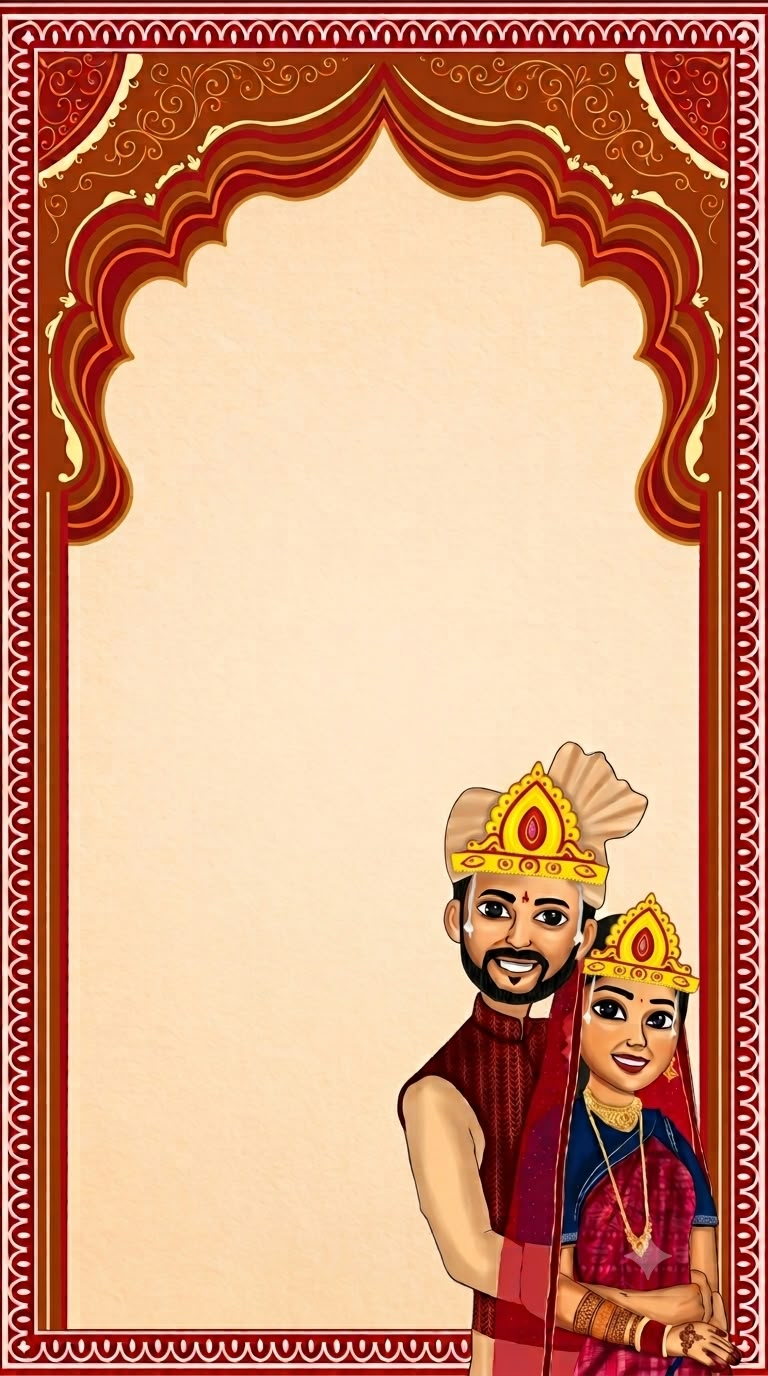
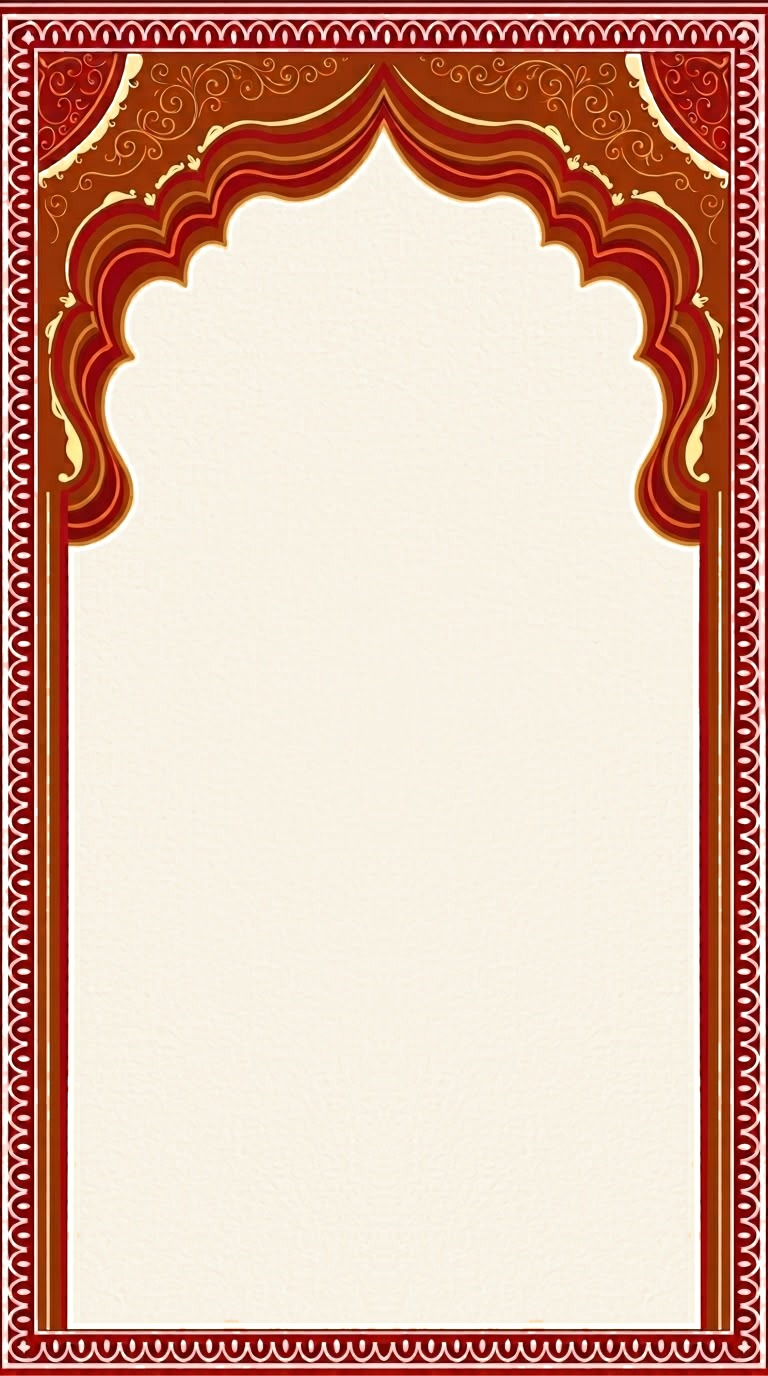
Couple: Ganesha, personal greeting, names, hashtag and quote
- The couple card keeps its carved arch and red-and-gold border; the
  illustrated couple is painted out (mirrored from the clean, symmetric
  left side) and the card's cream is matched to the invitation paper
- Spread evenly down the screen, all centred: a minimal gold Ganesha
  (fades and scales in), || Om Ganeshaya Namah ||, "Dear [guest]," from
  the share link (fallback Guest), "We joyfully invite you to celebrate
  with us.", a gold divider, the names stacked in Great Vibes (each line
  rising in 0.3s apart, gold ampersand at half size), #AviWedsPragyan in
  small caps between thin gold rules, and the quote under a small lotus
- EB Garamond at the specified weights, sizes and colours; no text
  transparency; balanced line breaks; transform/opacity animations only
- Fits one screen on phones and in the mockup (the shared fit hook gains
  a spread mode); the wording lives in config (couple.*)

diff --git a/src/components/sections/Couple.tsx b/src/components/sections/Couple.tsx
@@ -1,80 +1,53 @@
-import { useRef, type CSSProperties, type ReactNode } from "react";
+import { useRef, type CSSProperties } from "react";
 import { wedding } from "@/config/wedding";
+import { useGuest } from "@/context/GuestContext";
 import { useFitToArea } from "@/hooks/useFitToArea";
 import { useInView } from "@/hooks/useInView";
 import { EASE } from "@/lib/motion";
 import { CardBackdrop, cardCq, cardMinHeight, type CardArt } from "@/components/art/CardBackdrop";
-import { Divider, PinIcon } from "@/components/ui/CardOrnaments";
+import { GaneshaIcon, LotusIcon } from "@/components/art/Ganesha";
+import { Divider } from "@/components/ui/CardOrnaments";
 
 /**
- * The couple card artwork (768×1376): a carved arch in a red-and-gold border,
- * with the illustrated bride and groom at the bottom right. Its top (the
- * arch) and bottom (the couple) are kept whole; a plain band of the middle
- * repeats between them so the card fills the screen undistorted.
+ * The couple card artwork (768×1376): a carved arch in a red-and-gold border
+ * on cream paper matched to the invitation card. Its top (the arch) and
+ * bottom are kept whole; a plain 117px band of the middle repeats between
+ * them so the card fills the screen undistorted.
  */
 const CARD: CardArt = { src: "/art/couple-card.jpg", middle: "/art/couple-card-middle.png", w: 768, h: 1376, top: 606, bottomFrom: 723 };
 const cq = (px: number) => cardCq(CARD, px);
-const ARCH_INSIDE = 215; // the words start below the arch's peak (card px)
-const COUPLE_FROM = 745; // the illustrated couple (their crowns) begins here
-const ARCH_EDGE = 100; // the arch's inner edge, in from each side
+const UNDER_ARCH = 160; // below the arch's peak (card px)
+const BORDER_BOTTOM = 1300; // the bottom border band begins here
+const PANEL_EDGE = 62; // the inner red line of the side borders
 
 const INK = "#2E1A10";
+const QUOTE_INK = "#4A2C1A";
 const MAROON = "#7A1424";
 const GOLD = "#B8863B";
 const DARK_GOLD = "#8F6420";
-const LINE_STAGGER = 140;
 
 /**
  * Section 03 — The couple.
- * The couple's card fills the screen; inside its arch, above the illustrated
- * bride and groom, their names, the date and place, and a few words of
- * welcome rise in one by one as the section comes into view.
+ * Under Ganesha and the invocation, the guest is greeted by name, then the
+ * couple's names rise in one after another, with their hashtag and a short
+ * quote — spread evenly down the card, inside its arch and border.
  */
 export function Couple() {
   const ref = useRef<HTMLElement>(null);
   const areaRef = useRef<HTMLDivElement>(null);
   const blockRef = useRef<HTMLDivElement>(null);
-  const inView = useInView(ref, { threshold: 0.3 });
-  useFitToArea(areaRef, blockRef);
-  const { invitation } = wedding;
+  const inView = useInView(ref, { threshold: 0.25 });
+  useFitToArea(areaRef, blockRef, { spread: true });
+  const { guestName } = useGuest();
+  const { couple, invitation } = wedding;
   const [first, second] = invitation.names;
 
-  const line = (order: number): CSSProperties => {
-    const delay = 150 + order * LINE_STAGGER;
-    return {
-      opacity: inView ? 1 : 0,
-      transform: inView ? "none" : "translateY(10px)",
-      transition: `opacity 800ms ${EASE.silk} ${delay}ms, transform 800ms ${EASE.silk} ${delay}ms`,
-    };
-  };
-
-  const lines: ReactNode[] = [
-    <p key="e" className="mb-1 text-[13px] font-bold tracking-[0.3em] [font-variant-caps:small-caps]" style={{ color: DARK_GOLD }}>
-      The Couple
-    </p>,
-    <p key="n" aria-hidden className="mb-2 flex flex-col items-center leading-[1.05]" style={{ color: MAROON }}>
-      <span className="font-vibes text-[44px]">{first}</span>
-      <span className="font-vibes text-[26px] leading-none" style={{ color: GOLD }}>
-        &amp;
-      </span>
-      <span className="font-vibes text-[44px]">{second}</span>
-    </p>,
-    <Divider key="d" className="mb-2.5" />,
-    invitation.dateLine && (
-      <p key="dt" className="mb-1 text-[19px] font-bold leading-snug" style={{ color: MAROON }}>
-        {invitation.dateLine}
-      </p>
-    ),
-    invitation.place && (
-      <div key="pl" className="mb-3 flex flex-col items-center">
-        <PinIcon />
-        <p className="mt-0.5 max-w-[15rem] text-[14.5px] font-semibold leading-snug">{invitation.place}</p>
-      </div>
-    ),
-    <p key="m" className="mx-auto max-w-[17rem] text-[15.5px] font-semibold italic leading-relaxed">
-      {wedding.couple.message}
-    </p>,
-  ].filter(Boolean);
+  /** Fades in from just below, after `delay` ms. */
+  const rise = (delay: number): CSSProperties => ({
+    opacity: inView ? 1 : 0,
+    transform: inView ? "none" : "translateY(12px)",
+    transition: `opacity 700ms ${EASE.silk} ${delay}ms, transform 800ms ${EASE.silk} ${delay}ms`,
+  });
 
   return (
     <section
@@ -84,27 +57,83 @@ export function Couple() {
       data-status-tone="light"
       className="relative [container-type:inline-size]"
     >
-      <h2 id="couple-heading" className="sr-only">
-        {first} and {second}
-      </h2>
       <CardBackdrop card={CARD} />
 
       <div
         className="relative z-20 flex flex-col"
-        style={{ minHeight: cardMinHeight(CARD), paddingTop: cq(ARCH_INSIDE), paddingBottom: cq(CARD.h - COUPLE_FROM), color: INK }}
+        style={{
+          minHeight: cardMinHeight(CARD),
+          paddingTop: cq(UNDER_ARCH),
+          paddingBottom: `calc(${cq(CARD.h - BORDER_BOTTOM)} + 10px)`,
+          color: INK,
+        }}
       >
-        {/* Inside the arch, above the illustrated couple; shrinks if needed to fit */}
         <div ref={areaRef} className="relative min-h-0 flex-1">
+          {/* Spread evenly down the card; shrinks a little on very small screens */}
           <div
             ref={blockRef}
-            className="absolute inset-x-0 top-1/2 py-2 text-center font-serif"
-            style={{ paddingInline: `calc(${cq(ARCH_EDGE)} + 10px)`, transform: "translateY(-50%)" }}
+            className="absolute inset-x-0 top-1/2 flex flex-col items-center justify-evenly gap-4 text-center font-serif"
+            style={{ paddingInline: `calc(${cq(PANEL_EDGE)} + 28px)`, transform: "translateY(-50%)" }}
           >
-            {lines.map((node, i) => (
-              <div key={i} style={line(i)}>
-                {node}
+            {/* Ganesha and the invocation */}
+            <div className="flex flex-col items-center">
+              <div
+                style={{
+                  opacity: inView ? 1 : 0,
+                  transform: inView ? "none" : "scale(0.85)",
+                  transition: `opacity 600ms ${EASE.silk}, transform 600ms ${EASE.silk}`,
+                }}
+              >
+                <GaneshaIcon className="h-14 w-auto" />
               </div>
-            ))}
+              <p className="mt-3 whitespace-nowrap text-[17px] font-bold tracking-[0.15em]" style={{ ...rise(250), color: MAROON }}>
+                {couple.invocation}
+              </p>
+            </div>
+
+            {/* The guest, by name */}
+            <div className="flex flex-col items-center">
+              <p className="text-[20px] font-semibold italic leading-tight" style={rise(450)}>
+                {couple.greeting.replace("{guest}", guestName)}
+              </p>
+              <p className="mt-1.5 text-[16px] font-medium leading-snug [text-wrap:balance]" style={rise(600)}>
+                {couple.invite}
+              </p>
+              <div className="mt-3" style={rise(700)}>
+                <Divider />
+              </div>
+            </div>
+
+            {/* The couple's names, one after another */}
+            <h2 id="couple-heading" className="flex flex-col items-center font-normal leading-[1.1]" style={{ color: MAROON }}>
+              <span className="font-vibes text-[56px]" style={rise(900)}>
+                {first}
+              </span>
+              <span className="my-1.5 font-vibes text-[28px] leading-none" style={{ ...rise(1200), color: GOLD }}>
+                &amp;
+              </span>
+              <span className="font-vibes text-[56px]" style={rise(1500)}>
+                {second}
+              </span>
+            </h2>
+
+            {couple.hashtag && (
+              <div className="flex flex-col items-center gap-1.5" style={rise(1800)}>
+                <span aria-hidden className="h-px w-40" style={{ background: `linear-gradient(to right, transparent, ${GOLD}, transparent)` }} />
+                <p className="text-[15px] font-bold tracking-[0.2em] [font-variant-caps:small-caps]" style={{ color: DARK_GOLD }}>
+                  {couple.hashtag}
+                </p>
+                <span aria-hidden className="h-px w-40" style={{ background: `linear-gradient(to right, transparent, ${GOLD}, transparent)` }} />
+              </div>
+            )}
+
+            {/* A few words, under a small lotus */}
+            <div className="flex flex-col items-center" style={rise(2000)}>
+              <LotusIcon className="h-5 w-auto" />
+              <p className="mt-1.5 max-w-[17rem] text-[16px] font-medium italic leading-[1.7] [text-wrap:balance]" style={{ color: QUOTE_INK }}>
+                {couple.quote}
+              </p>
+            </div>
           </div>
         </div>
       </div>

diff --git a/src/components/art/Ganesha.tsx b/src/components/art/Ganesha.tsx
@@ -1,0 +1,59 @@
+const GOLD = "#B8863B";
+const GOLD_LIGHT = "#D9AE5F";
+const MAROON = "#7A1424";
+
+/**
+ * A small, minimal Ganesha in gold with fine maroon details: crown, broad
+ * ears, a trunk curling to his left, one tusk, tilak and eyes, seated on a
+ * lotus base. Drawn for ~56px tall.
+ */
+export function GaneshaIcon({ className = "" }: { className?: string }) {
+  return (
+    <svg viewBox="0 0 64 72" className={className} role="img" aria-label="Lord Ganesha">
+      {/* Ears, behind the head */}
+      <path d="M17 24C8 20 3 27 4 35c1 7 6 11 13 10 2-5 2-14 0-21Z" fill={GOLD_LIGHT} stroke={GOLD} strokeWidth="1" />
+      <path d="M47 24c9-4 14 3 13 11-1 7-6 11-13 10-2-5-2-14 0-21Z" fill={GOLD_LIGHT} stroke={GOLD} strokeWidth="1" />
+      <path d="M9 31c1 4 3 7 6 8M55 31c-1 4-3 7-6 8" fill="none" stroke={MAROON} strokeWidth="0.8" strokeLinecap="round" />
+
+      {/* Crown (mukut) */}
+      <path d="M22 18l3-9 3.5 5L32 5l3.5 9L39 9l3 9Z" fill={GOLD} stroke={MAROON} strokeWidth="0.7" strokeLinejoin="round" />
+      <circle cx="32" cy="14.5" r="1.5" fill={MAROON} />
+      <path d="M21 18.5h22" stroke={MAROON} strokeWidth="0.9" strokeLinecap="round" />
+
+      {/* Head and trunk, curling to his left */}
+      <path
+        d="M20 22c0-3 5-4 12-4s12 1 12 4c1 7-1 13-5 16-1 4-1 8 1 11 2 3 6 3 7 0 0-2-2-3-3-2"
+        fill="none"
+        stroke={GOLD}
+        strokeWidth="2.2"
+        strokeLinecap="round"
+      />
+      <path d="M20 22c-1 7 1 13 5 16 1 5 2 10 5 13 3 3 8 3 10 0" fill="none" stroke={GOLD} strokeWidth="2.2" strokeLinecap="round" />
+      <path d="M20.5 21.5c0 7 2 12 5 15.5 1 5 2.5 9.5 5 12.5 2.5 2.6 7 2.4 8.8 0 -2.4-2.6-2.6-7-1.6-11.5 3.6-3 5.2-8.5 4.4-15.5C38 21 26 21 20.5 21.5Z" fill={GOLD} opacity="0.9" />
+      <path d="M20.3 23.4c0-3.6 5.2-4.6 11.7-4.6s11.7 1 11.7 4.6v2.2H20.3Z" fill={GOLD} opacity="0.9" />
+      {/* Trunk folds */}
+      <path d="M29.5 40.5h5M30.5 44h4M31.5 47.4h3.2" stroke={MAROON} strokeWidth="0.7" strokeLinecap="round" />
+      {/* Tusk */}
+      <path d="M24.5 37.5l-3.5 3.5" stroke="#FFF6E0" strokeWidth="1.6" strokeLinecap="round" />
+      {/* Eyes and tilak */}
+      <path d="M25.5 28.2c1.2-1 2.6-1 3.8 0M34.7 28.2c1.2-1 2.6-1 3.8 0" fill="none" stroke={MAROON} strokeWidth="1" strokeLinecap="round" />
+      <path d="M32 21.5v4.5" stroke={MAROON} strokeWidth="1.1" strokeLinecap="round" />
+      <path d="M29.3 22.5c1 1.8 4.4 1.8 5.4 0" fill="none" stroke={MAROON} strokeWidth="0.8" strokeLinecap="round" />
+
+      {/* Lotus seat */}
+      <path d="M14 63c4-5 10-6 18-6s14 1 18 6c-5 3-11 4-18 4s-13-1-18-4Z" fill={GOLD_LIGHT} stroke={GOLD} strokeWidth="1" />
+      <path d="M32 57c-3 3-3 7 0 10 3-3 3-7 0-10ZM24 58.5c-2.5 2.5-2.3 6 .5 8.3M40 58.5c2.5 2.5 2.3 6-.5 8.3" fill="none" stroke={MAROON} strokeWidth="0.8" strokeLinejoin="round" />
+    </svg>
+  );
+}
+
+/** A small gold lotus, above the couple's quote. */
+export function LotusIcon({ className = "" }: { className?: string }) {
+  return (
+    <svg viewBox="0 0 40 24" className={className} aria-hidden>
+      <path d="M20 21C14 17 13 9 20 3c7 6 6 14 0 18Z" fill={GOLD} />
+      <path d="M19 21C11 21 6 16 6 10c7 0 12 5 13 11ZM21 21c8 0 13-5 13-11-7 0-12 5-13 11Z" fill={GOLD_LIGHT} stroke={GOLD} strokeWidth="0.8" />
+      <path d="M8 22h24" stroke={GOLD} strokeWidth="1" strokeLinecap="round" />
+    </svg>
+  );
+}

diff --git a/src/hooks/useFitToArea.ts b/src/hooks/useFitToArea.ts
@@ -4,8 +4,14 @@ import { useEffect, type RefObject } from "react";
  * Scales `block` (absolutely positioned and vertically centred in `area`
  * with translateY(-50%)) down just enough to fit `area`. If it would have to
  * go below `minFit`, the area grows instead (and the page scrolls a little).
+ * With `spread`, a block that fits is stretched to the area's full height
+ * (so a flex column inside it can space its items evenly).
  */
-export function useFitToArea(areaRef: RefObject<HTMLElement>, blockRef: RefObject<HTMLElement>, minFit = 0.72) {
+export function useFitToArea(
+  areaRef: RefObject<HTMLElement>,
+  blockRef: RefObject<HTMLElement>,
+  { minFit = 0.72, spread = false }: { minFit?: number; spread?: boolean } = {},
+) {
   useEffect(() => {
     const area = areaRef.current;
     const block = blockRef.current;
@@ -14,10 +20,12 @@ export function useFitToArea(areaRef: RefObject<HTMLElement>, blockRef: RefObjec
     const fit = () => {
       frame = 0;
       area.style.minHeight = "";
+      block.style.height = "";
       const natural = block.offsetHeight;
       const avail = area.clientHeight;
       if (!natural || !avail) return;
       const scale = Math.min(1, Math.max(minFit, avail / natural));
+      if (spread && natural <= avail) block.style.height = `${avail}px`;
       if (natural * scale > avail) area.style.minHeight = `${Math.ceil(natural * scale)}px`;
       block.style.transform = `translateY(-50%) scale(${scale.toFixed(4)})`;
     };
@@ -35,5 +43,5 @@ export function useFitToArea(areaRef: RefObject<HTMLElement>, blockRef: RefObjec
       window.removeEventListener("resize", schedule);
       cancelAnimationFrame(frame);
     };
-  }, [areaRef, blockRef, minFit]);
+  }, [areaRef, blockRef, minFit, spread]);
 }

diff --git a/src/config/wedding.ts b/src/config/wedding.ts
@@ -90,8 +90,16 @@ export interface WeddingConfig {
   couple: {
     bride: Person;
     groom: Person;
-    /** Short line under the couple's names (Section 03). */
-    message: string;
+    /** Section 03, top to bottom: invocation under the Ganesha icon. */
+    invocation: string;
+    /** `{guest}` is replaced with the guest's name from the share link. */
+    greeting: string;
+    /** Line under the greeting. */
+    invite: string;
+    /** Shown under the names; null hides it. */
+    hashtag: string | null;
+    /** Closing quote, under a small lotus. */
+    quote: string;
   };
   wedding: {
     /** ISO 8601 local date-time at the venue, e.g. "2027-02-14T19:30". */
@@ -288,9 +296,11 @@ export const wedding: WeddingConfig = {
   couple: {
     bride: { displayName: "Bride", fullName: null }, // PLACEHOLDER
     groom: { displayName: "Groom", fullName: null }, // PLACEHOLDER
-    // PLACEHOLDER wording
-    message:
-      "Together with our families, we would be honoured to have you with us as we begin our life together.",
+    invocation: "|| Om Ganeshaya Namah ||",
+    greeting: "Dear {guest},",
+    invite: "We joyfully invite you to celebrate with us.",
+    hashtag: "#AviWedsPragyan",
+    quote: "Two souls, one journey, blessed by Lord Jagannath.",
   },
   wedding: {
     dateTime: null, // awaiting confirmed date & time

diff --git a/README.md b/README.md
@@ -35,6 +35,7 @@ Everything a guest reads lives in [`src/config/wedding.ts`](src/config/wedding.t
 | Item | Where |
 |---|---|
 | Couple's names | `couple.bride` / `couple.groom` |
+| Couple section wording (invocation, greeting, invite line, hashtag, quote) | `couple` |
 | Wedding date & time | `wedding.dateTime` |
 | Invitation card wording, names, date and place (date and place are SAMPLES — replace) | `invitation` |
 | Our Story milestones (the couple's own words) | `story.milestones` |
@@ -82,7 +83,7 @@ Each section has its own entrance. All of them respect *reduced motion*.
 |---|---|
 | Opening | The carved temple door artwork (`public/art/temple-door.webp`) fills the screen, fading in from the dark; light gathers at the seam, then the two leaves swing smoothly inward on their own into golden light, the view glides through the doorway and Mahaprabhu Jagannath (`public/art/jagannath.png`, a transparent cut-out) emerges in a radiant golden glow, then the scene rises like a curtain (Skip / Esc; a sound button opposite Skip plays the sankha) |
 | Invitation | The illustrated invitation card (`public/art/invitation-card.jpg`) fits one screen; its plain middle band repeats so it fills any height undistorted. Bold EB Garamond text — the opening line in exactly two lines sized to the width, the names stacked (first / & / second) in Great Vibes, the date and place — is centred between the deities and a colourful filled jhoti rangoli between the banana trees, shrinking just enough to fit (down to 72%, then the card scrolls). The rangoli builds ring by ring and breathes above a bold "Tap the rangoli" on a cream pill; a tap spins its petals into a golden wash that fades into the couple (once only) |
-| Couple | The illustrated couple card (`public/art/couple-card.jpg`: carved arch, red-and-gold border, the bride and groom at the bottom right) fills the screen; inside the arch the names (Great Vibes), date, place and welcome rise in one by one |
+| Couple | The couple card (`public/art/couple-card.jpg`: carved arch in a red-and-gold border, cream matched to the invitation) fills one screen. Spread evenly inside it: a gold Ganesha, || Om Ganeshaya Namah ||, the guest greeted by name, the names stacked in Great Vibes rising in one after another, the hashtag between gold rules, and a quote under a small lotus |
 | Countdown | On a matte-black strip, the Konark Sun Temple wheel turns into alignment with the scroll; days, hours and minutes sit in its hub |
 | Our Story | Sambalpuri Ikat thread grows with the scroll; chapters alternate either side, each marked by a Pattachitra icon (peacocks, Koka lotus, pana-gua) |
 | Family | Gurujana Pranam grid: Aja & Aai above Pitra-Matra in crisp gold boxes; a flickering brass dipa beside departed elders |
